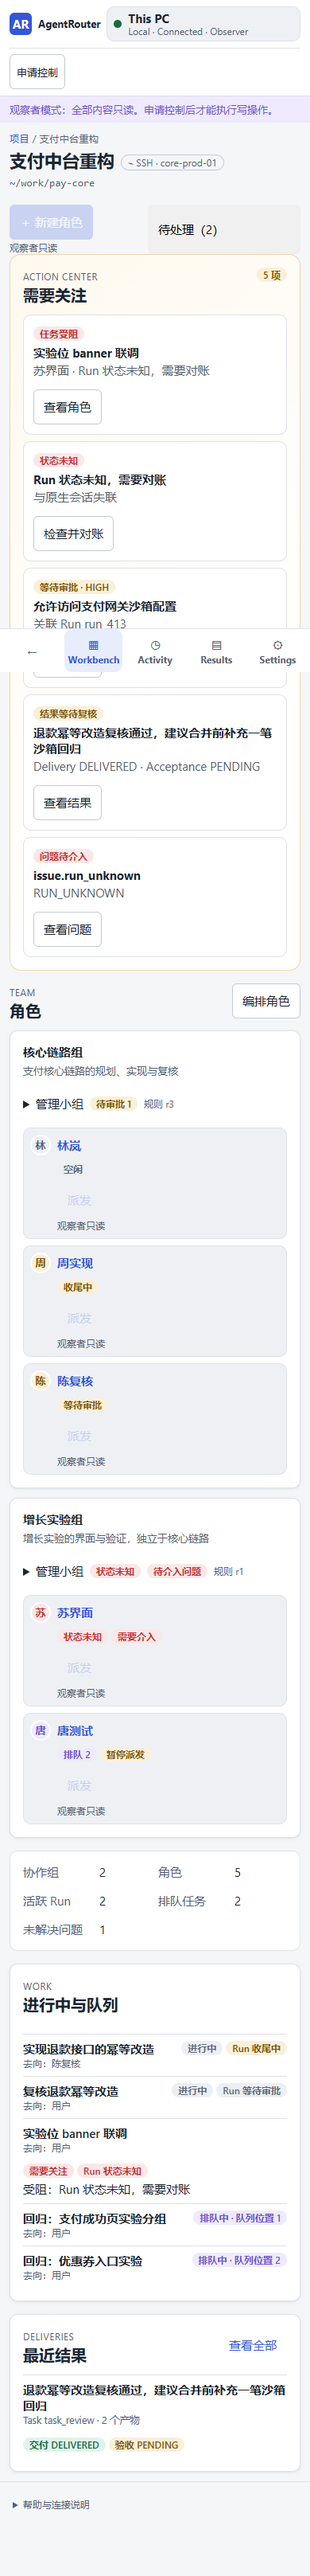
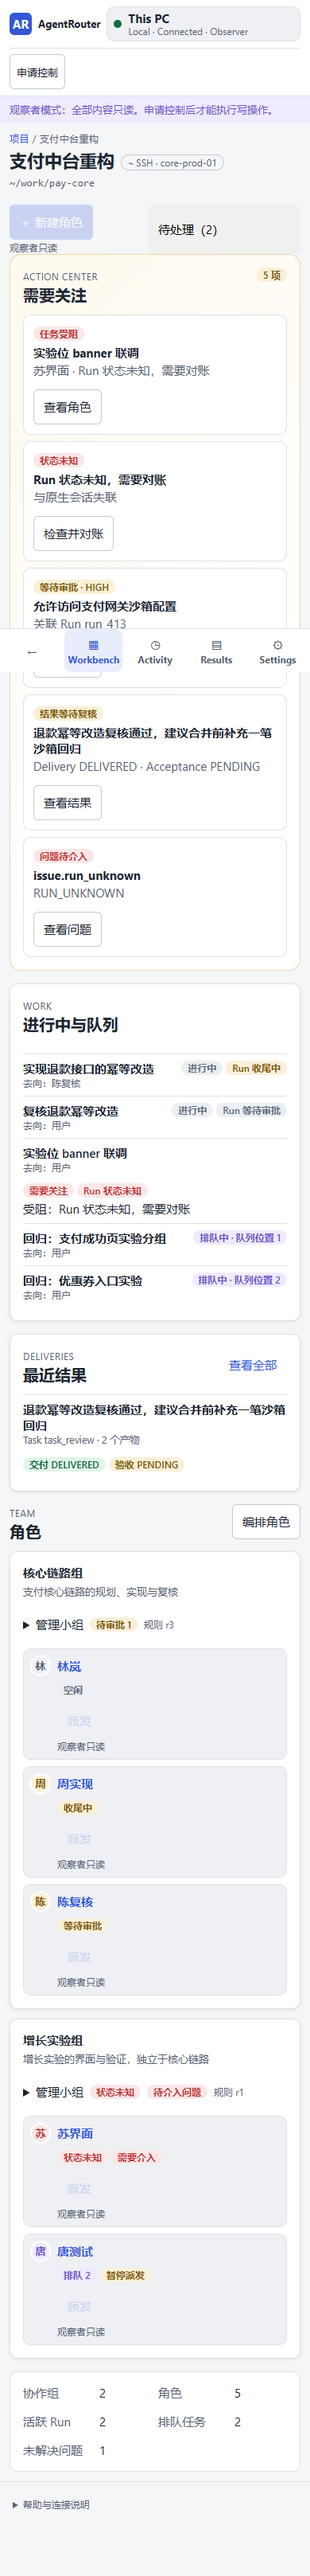
docs(ui): record P0 visual comparison and fixed fixture evidence

diff --git a/docs/v1.1-final/ui-final/visual-diffs/New-WorkSession.md b/docs/v1.1-final/ui-final/visual-diffs/New-WorkSession.md
@@ -1,0 +1,7 @@
+# New WorkSession — BLOCKED_CONTRACT
+
+| TARGET | 本轮 CURRENT / FIXTURE |
+|---|---|
+| `refs/PRIMARY/10_46_30-2.png` | `screenshots/03-role-worksession.png`（预览 Core 不支持创建；无完整 Wizard 截图） |
+
+现有向导支持 Managed Harness、blank/inherit 和 Review；继承后会跟踪 Core 返回的 transfer operation，并在不确定时禁止第二次创建。`UI-CONTRACT-GAP-003` 尚无容量/压缩投影，Web Participant 分支和真实处理截图仍未完成。

diff --git a/docs/v1.1-final/ui-final/visual-diffs/Mobile.md b/docs/v1.1-final/ui-final/visual-diffs/Mobile.md
@@ -1,0 +1,7 @@
+# Mobile — BLOCKED
+
+| TARGET | 本轮 CURRENT / FIXTURE |
+|---|---|
+| `refs/PRIMARY/17_59_04-5.png`、`17_59_06-6.png` | `screenshots/06-mobile-intervention.png`、`09-mobile-wide.png` |
+
+项目首页已优先显示 Attention、Running、Recent Results，再显示 Roles；底部导航保持可达。正式 WAITING_INPUT Reply、Controller Required、真实浏览器与离线草稿流程未在本轮源码 SHA 上完成。

diff --git a/docs/v1.1-final/ui-final/visual-diffs/Project-Workbench.md b/docs/v1.1-final/ui-final/visual-diffs/Project-Workbench.md
@@ -1,0 +1,7 @@
+# Project Workbench — BLOCKED
+
+| TARGET | 本轮 CURRENT / FIXTURE |
+|---|---|
+| `refs/PRIMARY/10_05_17-4.png` | `screenshots/02-workbench.png`、`05-workbench-150dpi.png` |
+
+已移除重复 tabs，页面改为 Attention/Role 主区和 Running/Results 右栏，顶部主动作 New Role。Role 仍以 Space 分组大卡呈现，首屏密度与参考图未完全收敛；真实 Core 和 200% 验证未重跑。

diff --git a/docs/v1.1-final/ui-final/visual-diffs/Results.md b/docs/v1.1-final/ui-final/visual-diffs/Results.md
@@ -1,0 +1,7 @@
+# Results List / Result Detail — BLOCKED
+
+| TARGET | 本轮 CURRENT / FIXTURE |
+|---|---|
+| `refs/PRIMARY/17_24_58-3.png` | `screenshots/04-results-evidence.png`、`13-results-dark.png` |
+
+Result Detail 保留交付与验收独立状态，Run ID 移入技术详情。列表筛选、Evidence 结构化投影（`UI-CONTRACT-GAP-002`）、真实 artifact 验证与接受流程仍待终版验证。

diff --git a/docs/v1.1-final/ui-final/visual-diffs/Role-Detail.md b/docs/v1.1-final/ui-final/visual-diffs/Role-Detail.md
@@ -1,0 +1,7 @@
+# Role Detail — BLOCKED
+
+| TARGET | 本轮 CURRENT / FIXTURE |
+|---|---|
+| `refs/PRIMARY/10_25_13-4.png` | `screenshots/03-role-worksession.png` |
+
+已改为 Identity、Current WorkSession 与 Current Work 双栏，Conversation 收入次级区域。预览 Core 不提供 WorkSession/Slot 扩展，Current/History/Binding 的真实状态和权限右栏尚无终版截图；不能判定 PASS。

diff --git a/docs/v1.1-final/ui-final/visual-diffs/Global-Shell.md b/docs/v1.1-final/ui-final/visual-diffs/Global-Shell.md
@@ -1,0 +1,7 @@
+# Global Shell — BLOCKED
+
+| TARGET | 本轮 CURRENT / FIXTURE |
+|---|---|
+| `refs/PRIMARY/project.png` | `screenshots/01-home.png`、`02-workbench.png` |
+
+已将全局与项目导航分开，项目内仅保留返回 Projects 与四个主入口；Core 身份在顶栏表达。仍需真实 Core 的多主机身份、窄窗交互与人工视觉复核。截图为 `VISUAL_FIXTURE`。

diff --git a/docs/v1.1-final/ui-final/visual-diffs/Connections.md b/docs/v1.1-final/ui-final/visual-diffs/Connections.md
@@ -1,0 +1,7 @@
+# Connections — BLOCKED
+
+| TARGET | 本轮 CURRENT / FIXTURE |
+|---|---|
+| `refs/PRIMARY/17_08_15-5.png` | `screenshots/10-connections.png` |
+
+已分开 Core、管理客户端、参与者、设备；预览 Core 缺配对能力时安全禁用。管理客户端/参与者仍缺 display-safe 列表，真实控制租约和设备流程需在终版 Core 上核对。

diff --git a/docs/v1.1-final/ui-final/visual-diffs/State-Library.md b/docs/v1.1-final/ui-final/visual-diffs/State-Library.md
@@ -1,0 +1,7 @@
+# State Library — BLOCKED
+
+| TARGET | 本轮 CURRENT / FIXTURE |
+|---|---|
+| `refs/PRIMARY/17_48_14-6.png` | 共用 CSS token / Badge / Banner / Dialog；无独立状态库终版截图 |
+
+已统一 select/input/textarea 和移动触摸尺寸；Unknown、Disabled Reason、Pending 等尚未逐组件形成 Light/Dark、键盘与屏幕阅读器状态验收。

diff --git a/docs/v1.1-final/ui-final/visual-diffs/Projects.md b/docs/v1.1-final/ui-final/visual-diffs/Projects.md
@@ -1,0 +1,7 @@
+# Projects — BLOCKED
+
+| TARGET | 本轮 CURRENT / FIXTURE |
+|---|---|
+| `refs/PRIMARY/project.png` | `screenshots/01-home.png`、`08-projects-dark.png` |
+
+卡片现在显示前 3 组、每组前 5 位 Role 的姓名与状态，New Project 卡仍为同尺寸入口。参考图的卡片密度、空态、真实 Core 与暗色对比尚未完成逐项验收。

diff --git a/docs/v1.1-final/ui-final/visual-diffs/Settings.md b/docs/v1.1-final/ui-final/visual-diffs/Settings.md
@@ -1,0 +1,7 @@
+# Settings — BLOCKED
+
+| TARGET | 本轮 CURRENT / FIXTURE |
+|---|---|
+| `refs/PRIMARY/17_29_42.png` | `screenshots/12-project-settings.png`、`07-settings-dark.png` |
+
+Project/App Settings 已分层；项目 ID 和修订移入技术详情。真实远端路径、Observer 只读及深色各设置子页尚需终版核对。

diff --git a/docs/v1.1-final/ui-final/visual-diffs/Activity.md b/docs/v1.1-final/ui-final/visual-diffs/Activity.md
@@ -1,0 +1,7 @@
+# Activity — BLOCKED
+
+| TARGET | 本轮 CURRENT / FIXTURE |
+|---|---|
+| `refs/PRIMARY/17_19_45.png` | `screenshots/11-activity.png` |
+
+项目/角色筛选器已统一外观并并排。当前业务时间线仍混有低优先技术事件，Attention filter、详情抽屉与真实 stale 数据复核未完成。
